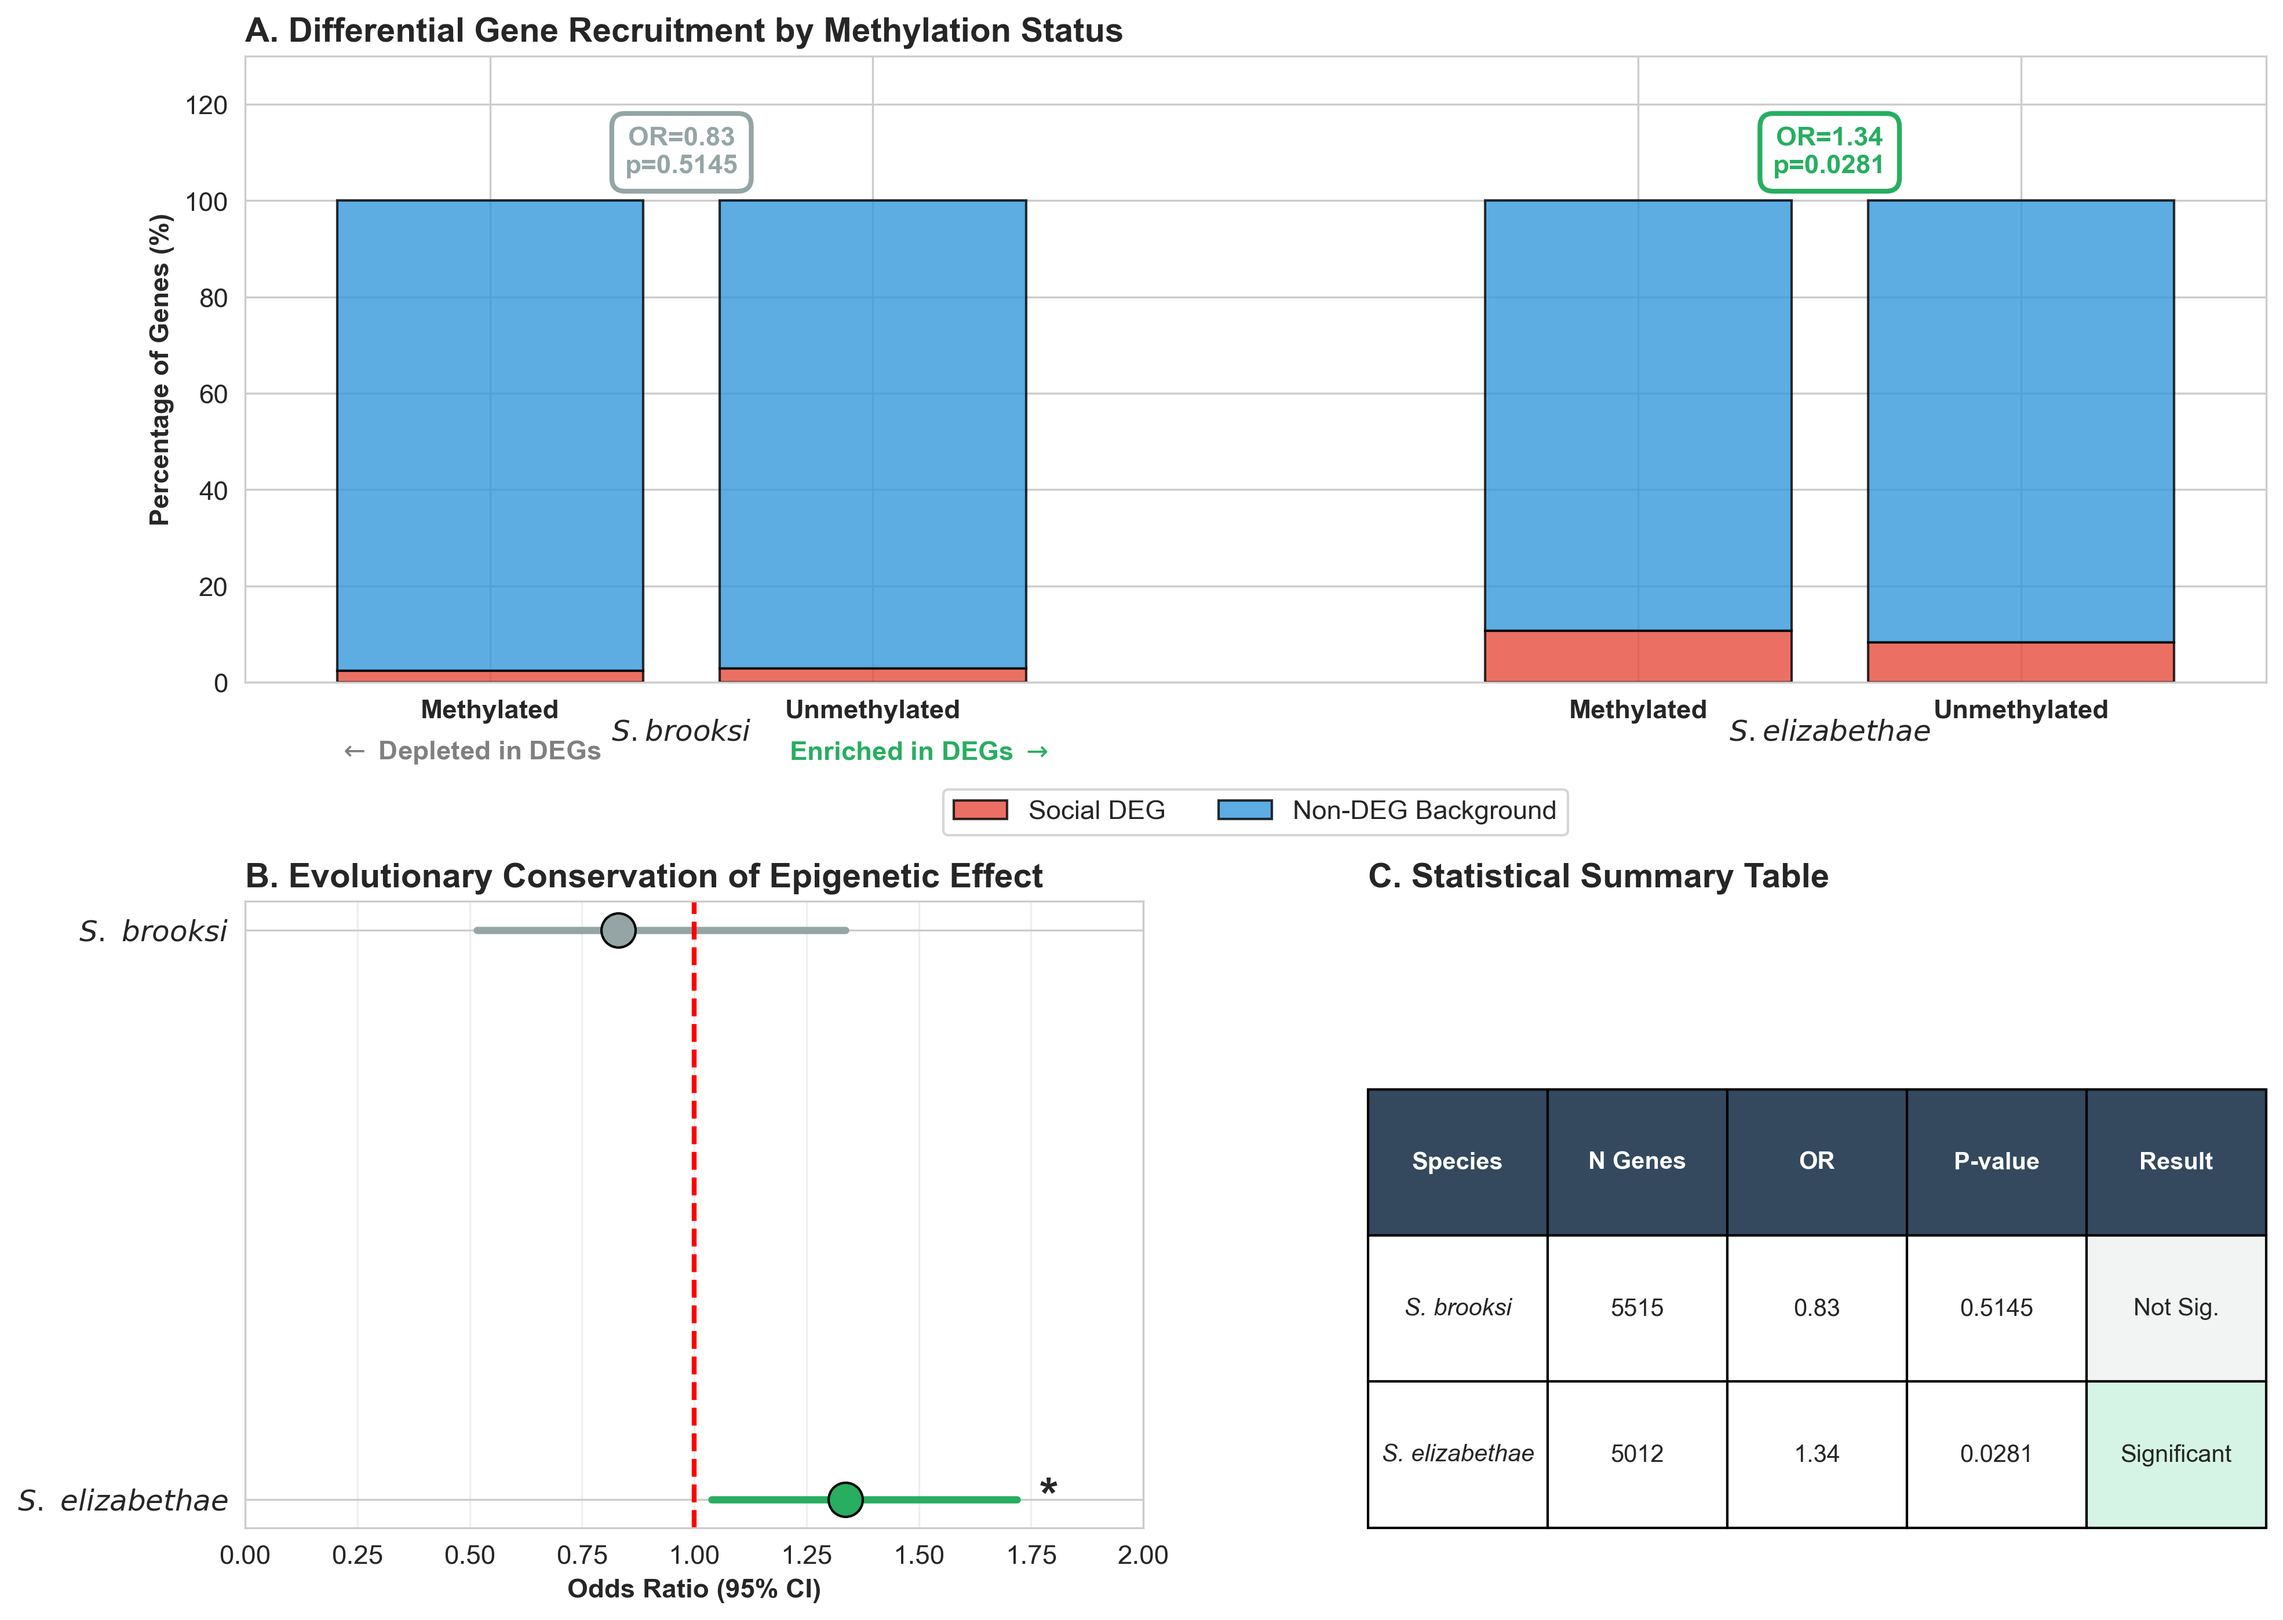
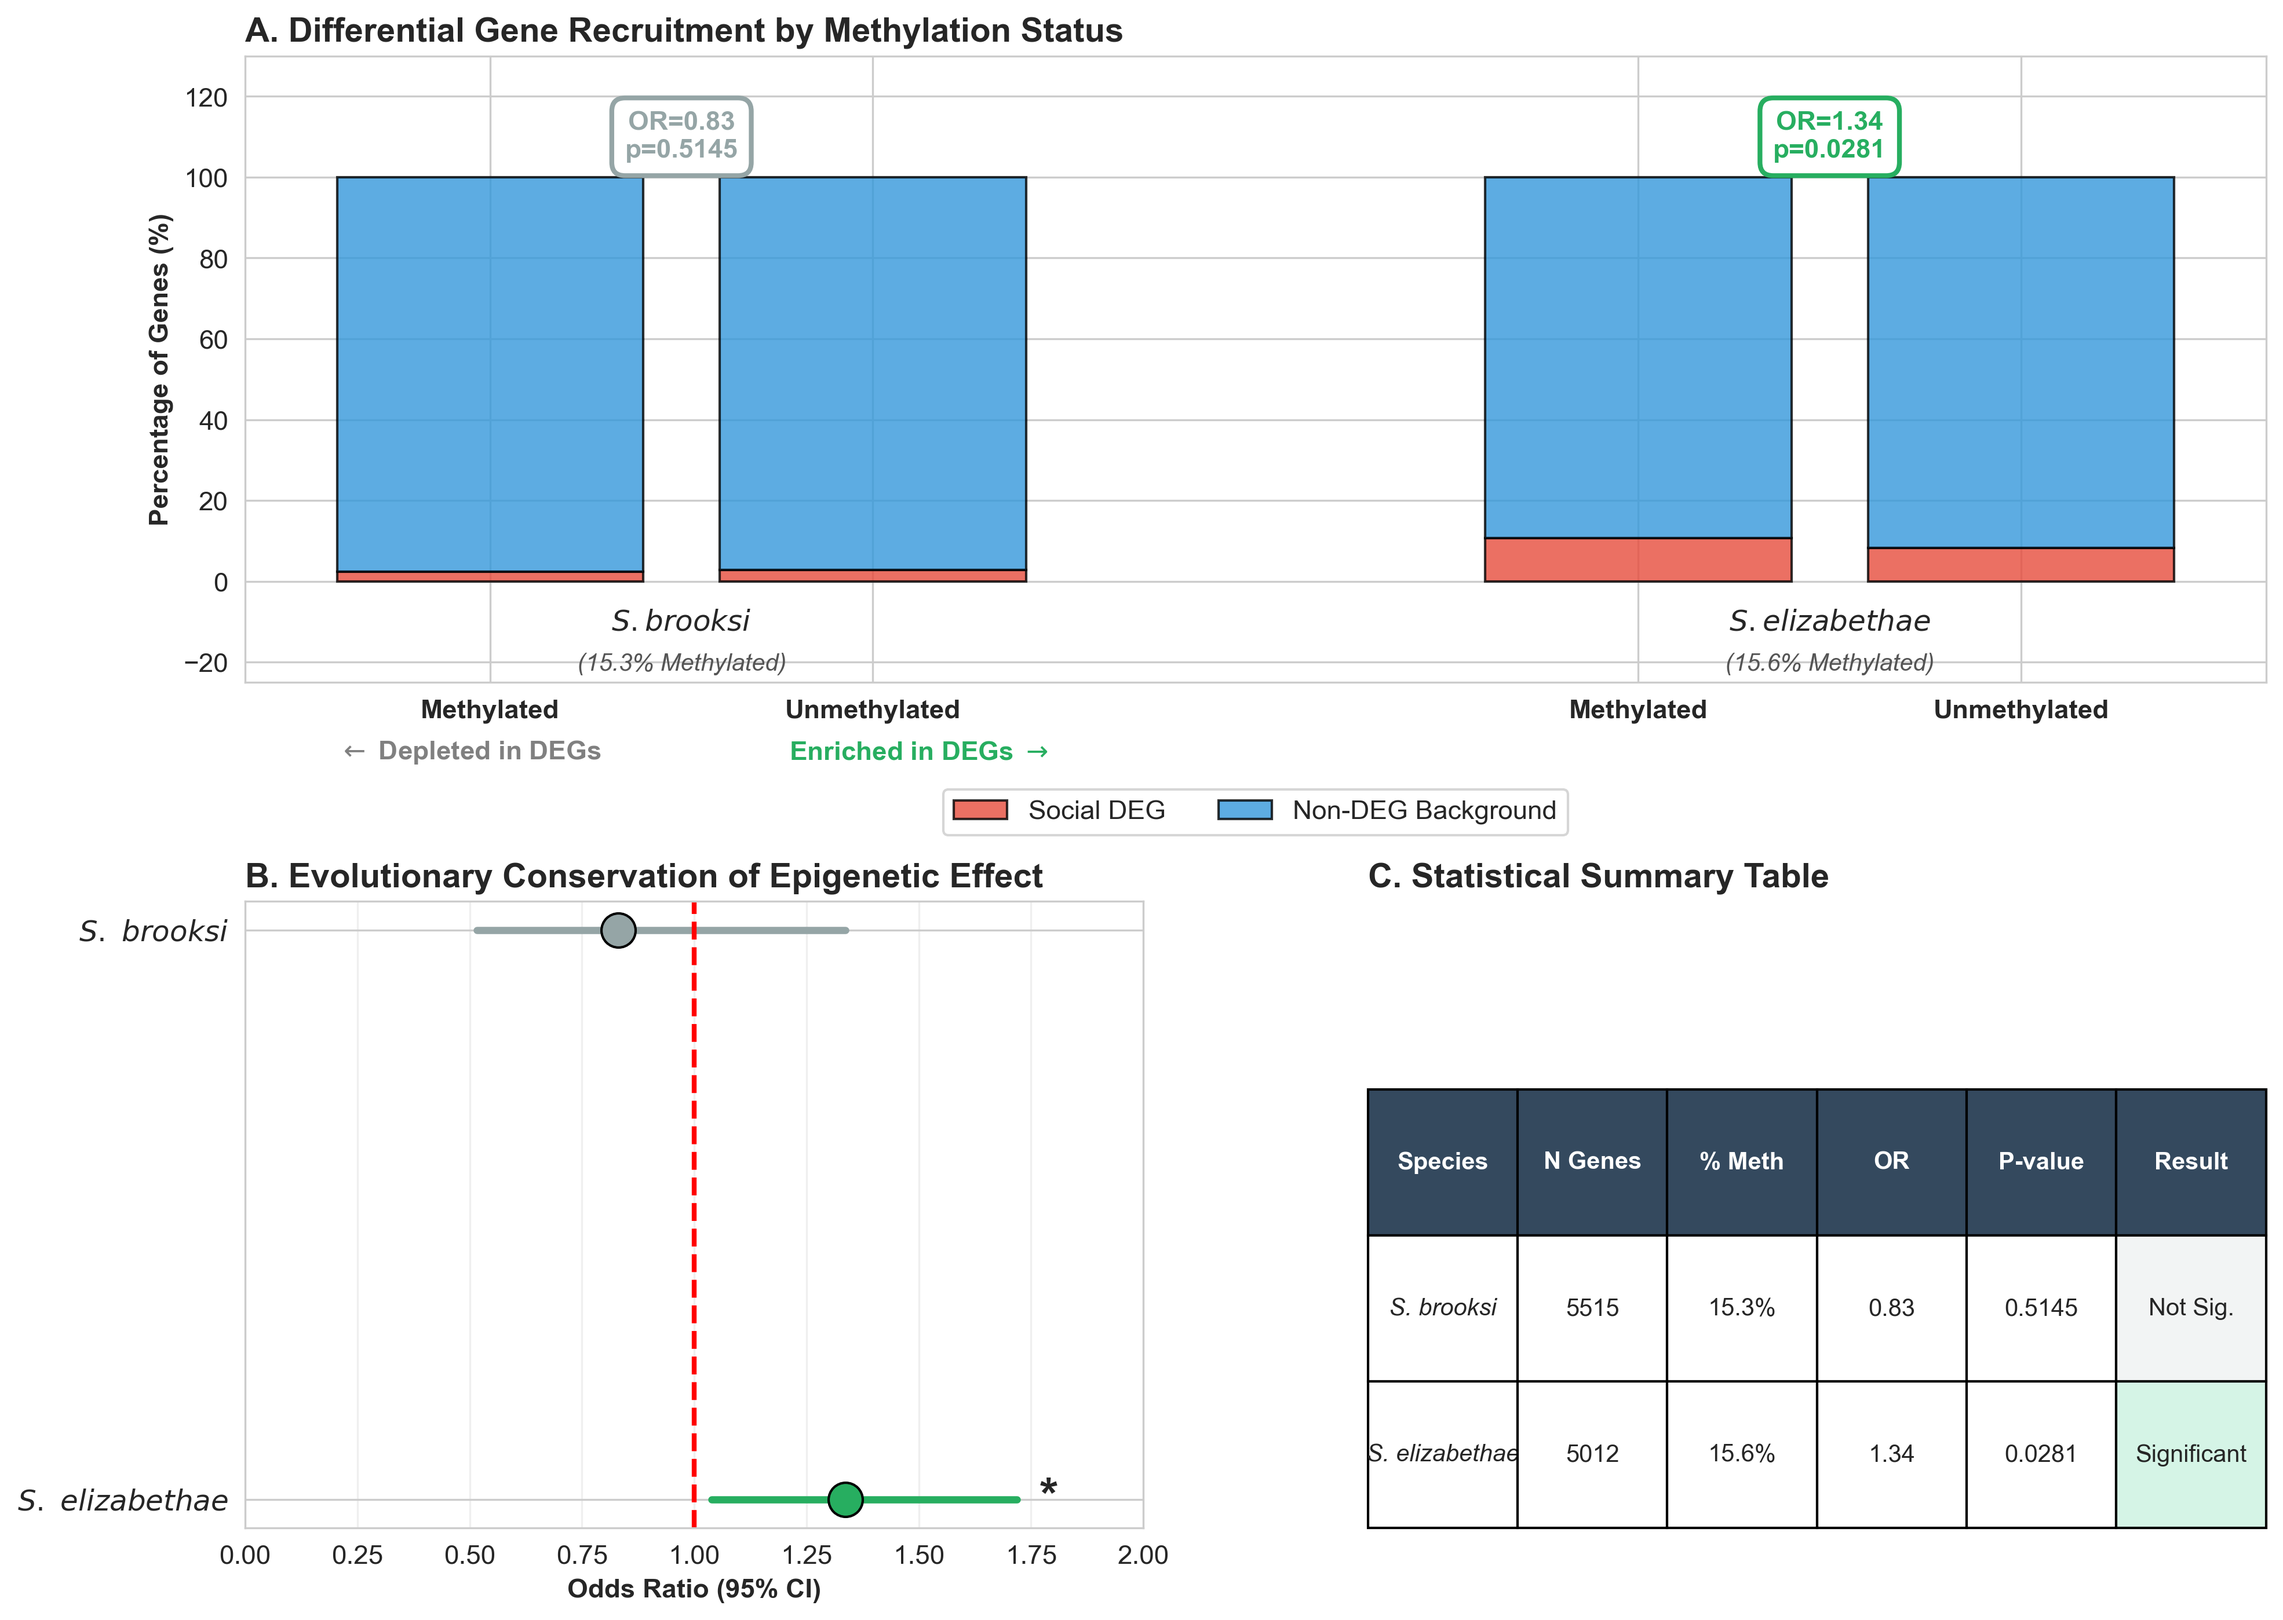
Add global methylation percentages to Figure 4 for comprehensive epigenetic profiling

diff --git a/scripts/05_definitive_orthology/create_figure4_highbandwidth.py b/scripts/05_definitive_orthology/create_figure4_highbandwidth.py
@@ -37,6 +37,11 @@ def get_stats(ctable):
 fig = plt.figure(figsize=(15, 11))
 gs = fig.add_gridspec(2, 2, hspace=0.35, wspace=0.25)
 
+# Calculate Global Methylation Rates
+brooksi_meth_rate = (brooksi.loc['Methylated'].sum() / brooksi.sum().sum()) * 100
+eliz_meth_rate = (elizabethae.loc['Methylated'].sum() / elizabethae.sum().sum()) * 100
+meth_rates = [brooksi_meth_rate, eliz_meth_rate]
+
 # --- PANEL A: ENRICHMENT BARS ---
 ax1 = fig.add_subplot(gs[0, :])
 species_data = [('S. brooksi', brooksi), ('S. elizabethae', elizabethae)]
@@ -53,6 +58,10 @@ for idx, (name, ct) in enumerate(species_data):
     # Species labels (Italicized)
     ax1.text(off + 0.5, -12, rf"$\mathit{{{name}}}$", ha='center', fontweight='bold', fontsize=12)
     
+    # Global Methylation Rate Label
+    ax1.text(off + 0.5, -22, f"({meth_rates[idx]:.1f}% Methylated)", 
+             ha='center', fontsize=10, color='#555555', style='italic')
+    
     # Stat Boxes
     p = summary.iloc[idx]['p_value']
     color = SIG_COLOR if p < 0.05 else NS_COLOR
@@ -60,7 +69,7 @@ for idx, (name, ct) in enumerate(species_data):
              ha='center', va='center', fontweight='bold', color=color,
              bbox=dict(boxstyle='round,pad=0.5', fc='white', ec=color, lw=2))
 
-ax1.set_ylim(0, 130)
+ax1.set_ylim(-25, 130)
 ax1.set_xticks([0, 1, 3, 4])
 ax1.set_xticklabels(['Methylated', 'Unmethylated', 'Methylated', 'Unmethylated'], fontweight='bold')
 ax1.set_ylabel('Percentage of Genes (%)', fontweight='bold')
@@ -96,22 +105,22 @@ ax3.axis('off')
 table_data = []
 for i, row in summary.iterrows():
     res = "Significant" if row['p_value'] < 0.05 else "Not Sig."
-    table_data.append([f"S. {row['species']}", row['n_genes_analyzed'], f"{row['odds_ratio']:.2f}", f"{row['p_value']:.4f}", res])
+    table_data.append([f"S. {row['species']}", row['n_genes_analyzed'], f"{meth_rates[i]:.1f}%", f"{row['odds_ratio']:.2f}", f"{row['p_value']:.4f}", res])
 
-table = ax3.table(cellText=table_data, colLabels=['Species', 'N Genes', 'OR', 'P-value', 'Result'], 
+table = ax3.table(cellText=table_data, colLabels=['Species', 'N Genes', '% Meth', 'OR', 'P-value', 'Result'], 
                   loc='center', cellLoc='center', bbox=[0, 0, 1, 0.7])
 table.auto_set_font_size(False)
 table.set_fontsize(10)
 
 # Style header
-for i in range(5):
+for i in range(6):
     table[(0, i)].set_facecolor('#34495e')
     table[(0, i)].set_text_props(weight='bold', color='white')
 
 # Style Table
 for i in range(1, 3):
     table[(i, 0)].get_text().set_fontstyle('italic')
-    res_cell = table[(i, 4)]
+    res_cell = table[(i, 5)]
     res_cell.set_facecolor('#d5f4e6' if "Significant" in res_cell.get_text().get_text() else '#f2f4f4')
 
 ax3.set_title('C. Statistical Summary Table', loc='left', fontsize=14, fontweight='bold')
